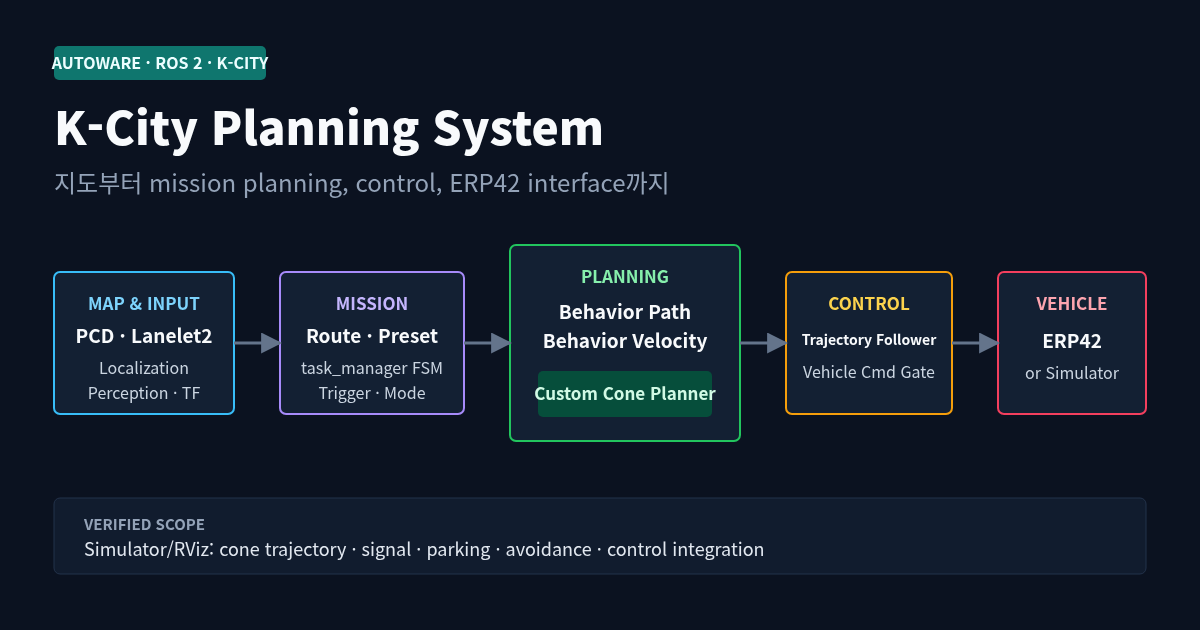
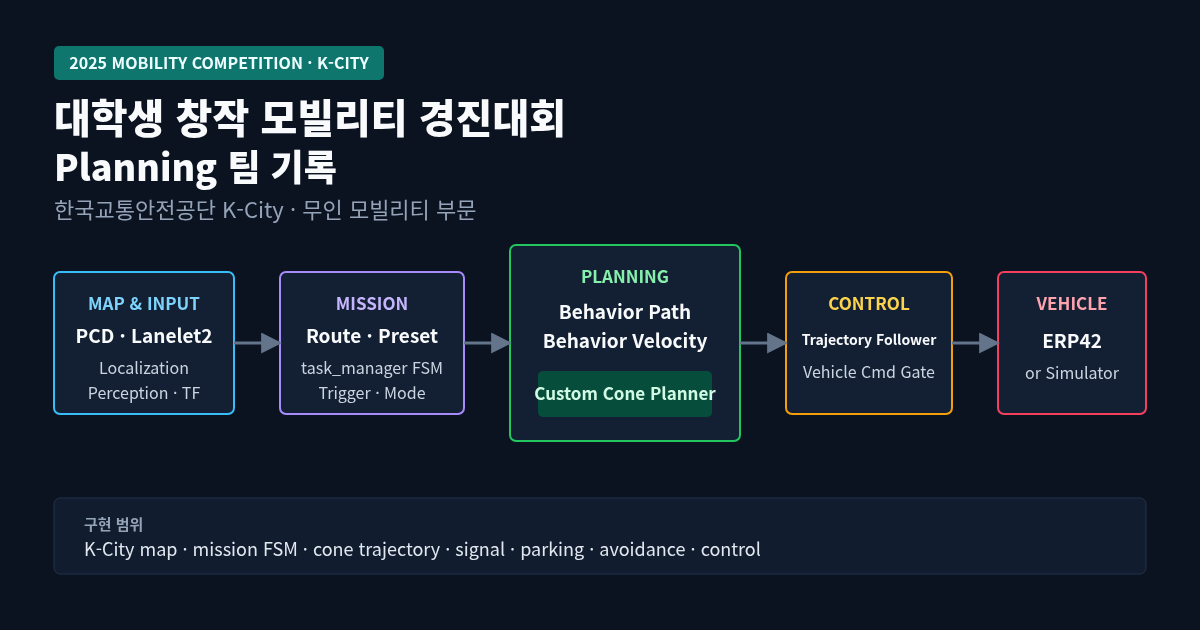
Retitle 2025 mobility competition post

Changed region(s): [[0.0308, 0.0603, 0.555, 0.3619], [0.0617, 0.8143, 0.6475, 0.9048]]

diff --git a/_posts/robotics/autonomous-driving/2026-07-29-autoware-kcity-planning-system.md b/_posts/robotics/autonomous-driving/2026-07-29-autoware-kcity-planning-system.md
@@ -1,13 +1,13 @@
 ---
-title: "2025 대학생 창작 모빌리티 경진대회: Autoware 기반 K-City Planning"
+title: "2025 대학생 창작 모빌리티 경진대회"
 date: 2026-07-29 15:30:00 +0900
-last_modified_at: 2026-07-29 18:34:00 +0900
+last_modified_at: 2026-07-29 18:47:00 +0900
 categories: [Robotics, Autonomous Driving]
 tags: [creative-mobility-competition, unmanned-mobility, autoware-universe, ros2, autonomous-driving, lanelet2, cone-planner, freespace-planner, erp42, k-city, carla, lidar, field-test, vehicle-interface]
-description: "한국교통안전공단 K-City에서 열린 2025 대학생 창작 모빌리티 경진대회 무인 모빌리티 부문을 준비하며 구축한 Autoware Planning 시스템을 정리한다."
+description: "한국교통안전공단 K-City에서 열린 2025 대학생 창작 모빌리티 경진대회 무인 모빌리티 부문의 Planning 팀 기록."
 image:
   path: /assets/img/posts/autonomous-driving/autoware-kcity-planning-system/00-preview.png
-  alt: 2025 대학생 창작 모빌리티 경진대회를 위한 K-City Autoware Planning 시스템
+  alt: 2025 대학생 창작 모빌리티 경진대회 Planning 팀 기록
 ---
 
 2025년 10월 31일부터 11월 1일까지 한국교통안전공단 자동차안전연구원 K-City에서 열린 **2025 대학생 창작 모빌리티 경진대회 무인 모빌리티 부문**을 준비했다.
